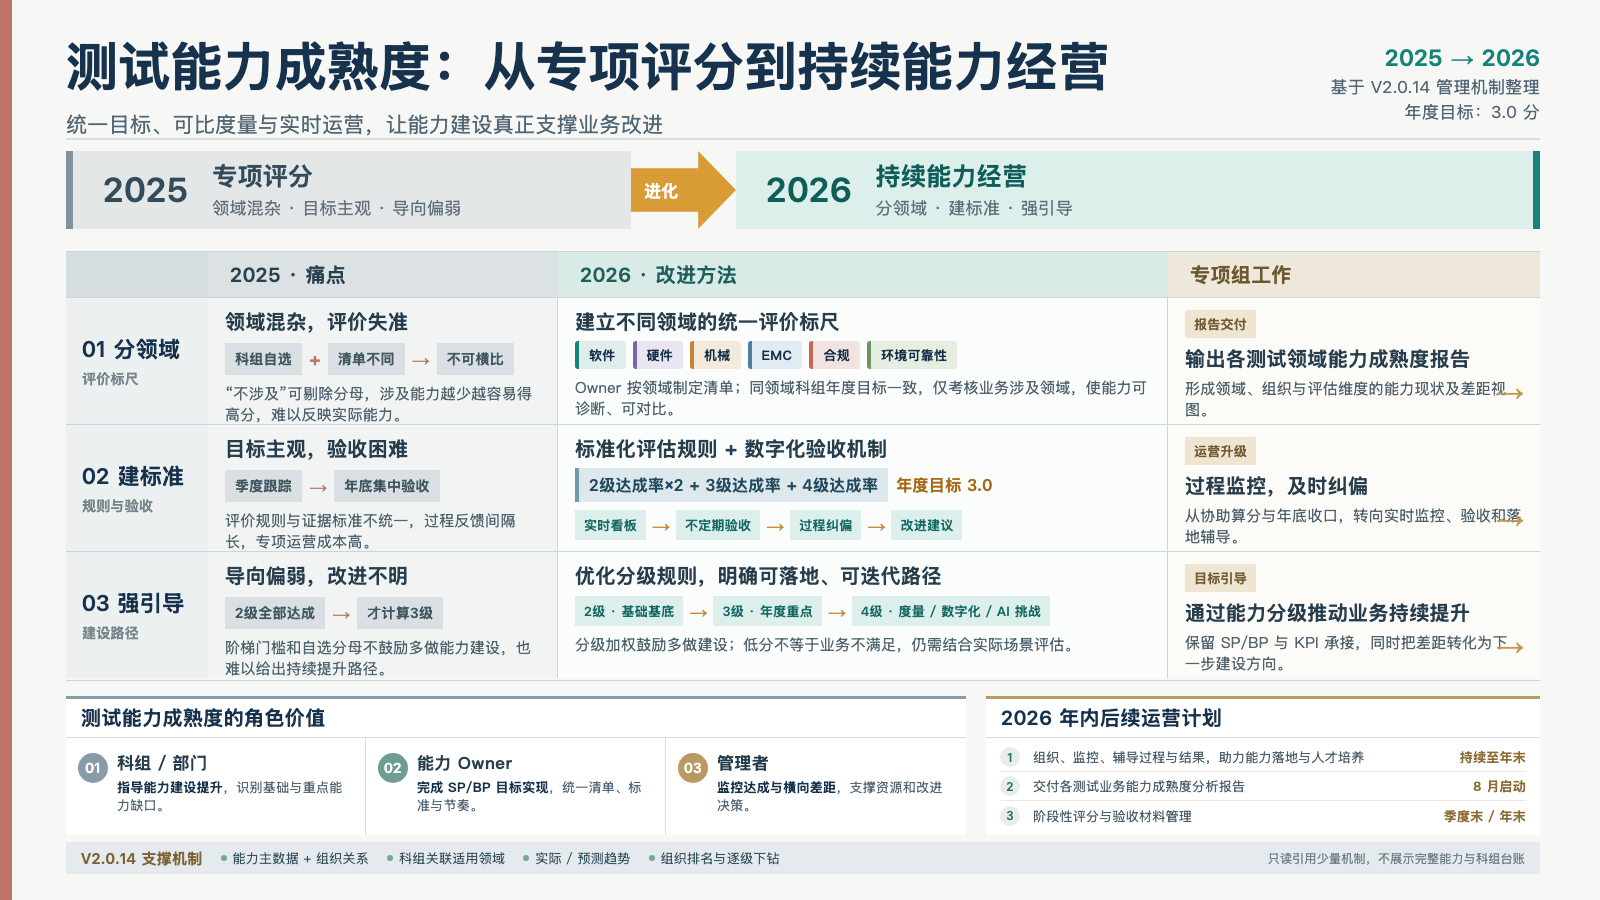
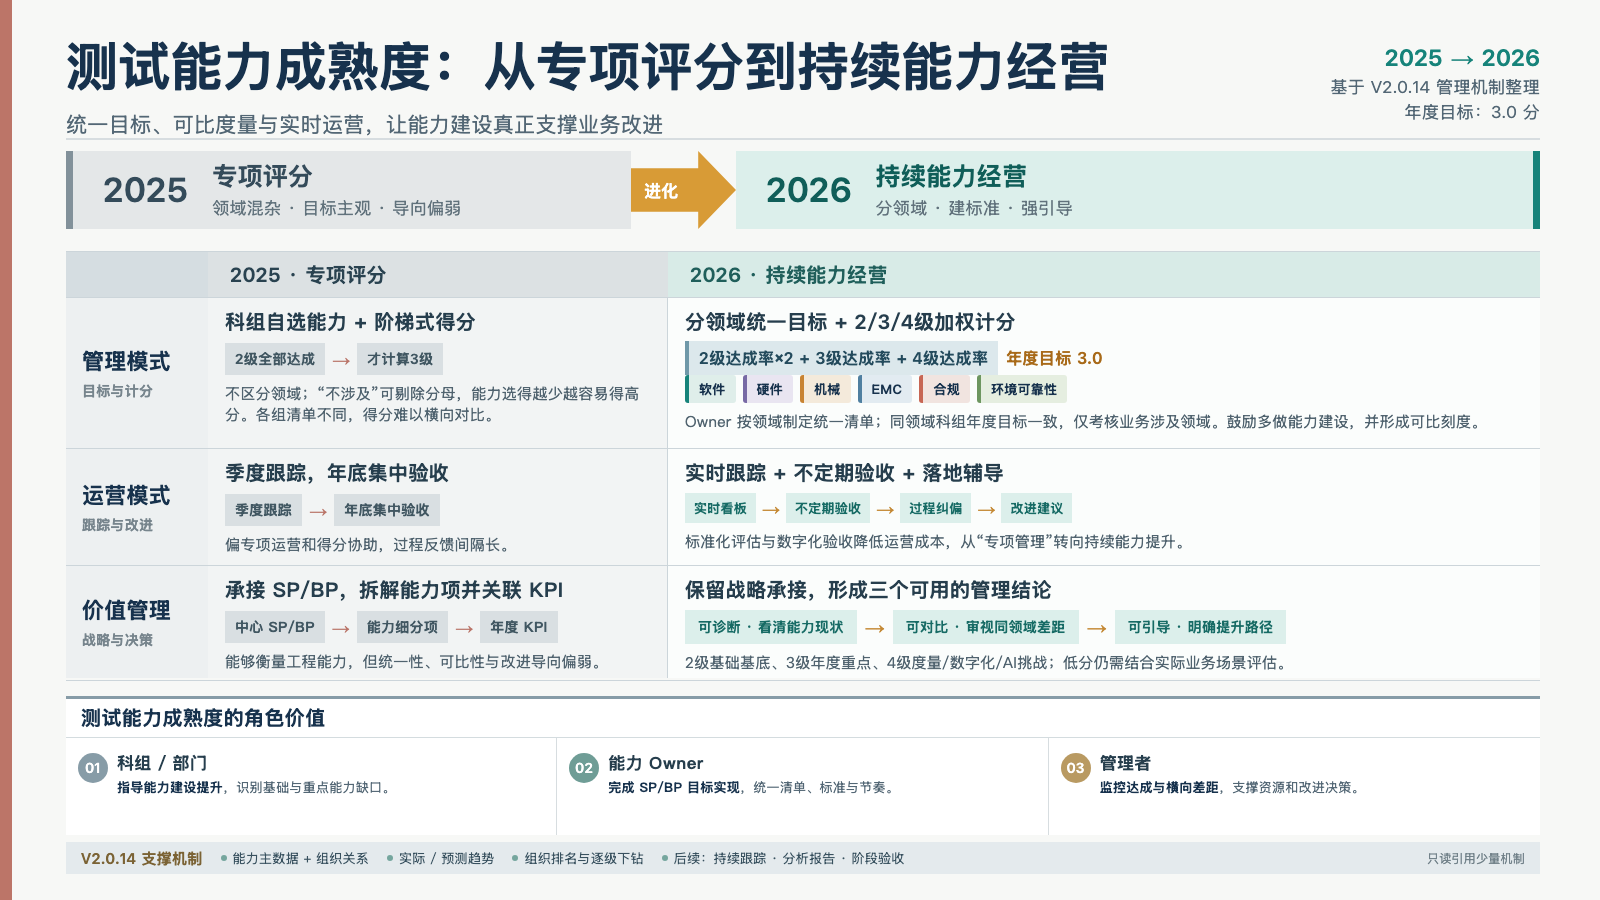
Refine task21 preview to core evolution points

diff --git a/task21-v2014-intro-ppt/html/测试能力成熟度2025-2026演进-单页PPT预览-v1.html b/task21-v2014-intro-ppt/html/测试能力成熟度2025-2026演进-单页PPT预览-v1.html
@@ -27,18 +27,16 @@
   .arrow{position:relative;background:#d89b36;clip-path:polygon(0 22%,64% 22%,64% 0,100% 50%,64% 100%,64% 78%,0 78%)}
   .arrow span{position:absolute;left:13px;top:28px;font-size:17px;color:white;font-weight:800}
 
-  .matrix{position:absolute;left:66px;right:60px;top:251px;height:430px;display:grid;grid-template-columns:142px 350px 610px 372px;grid-template-rows:45px repeat(3,127px);border-top:1px solid #ccd5da;border-bottom:1px solid #ccd5da}
+  .matrix{position:absolute;left:66px;right:60px;top:251px;height:430px;display:grid;grid-template-columns:142px 460px 872px;grid-template-rows:45px 151px 117px 113px;border-top:1px solid #ccd5da;border-bottom:1px solid #ccd5da}
   .matrix-head{display:flex;align-items:center;padding:0 22px;font-size:20px;font-weight:800;color:#294250}
   .matrix-head.old{background:#dce1e3}
   .matrix-head.new{background:#d8ebe7;color:#205f5b}
-  .matrix-head.work{background:#eee8db;color:#6c5831}
   .matrix-corner{background:#d5dde1}
   .row-label{display:flex;align-items:center;padding:0 16px;background:#edf0f1;border-top:1px solid #ccd5da;font-size:22px;font-weight:800;color:#17324d}
   .row-label small{display:block;font-size:14px;color:#77858d;margin-top:5px;font-weight:600}
   .cell{position:relative;padding:12px 17px;border-top:1px solid #ccd5da;background:#fff}
   .cell.old{border-right:1px solid #ccd5da;background:#f2f4f4}
-  .cell.new{background:#fbfdfc;border-right:1px solid #ccd5da}
-  .cell.work{background:#fdfbf7}
+  .cell.new{background:#fbfdfc}
   .cell h3{margin:0 0 7px;font-size:20px;line-height:1.2;color:#263e4d}
   .cell p{margin:0;font-size:15px;line-height:1.42;color:#50636f}
   .pain-art{display:flex;align-items:center;gap:7px;margin:9px 0 8px}
@@ -53,11 +51,12 @@
   .standard-flow,.level-flow{display:flex;align-items:center;gap:6px;margin:8px 0}
   .standard-flow span,.level-flow span{padding:6px 9px;background:#dcefeb;color:#176b65;font-size:13px;font-weight:800;white-space:nowrap}
   .standard-flow i,.level-flow i{font-style:normal;color:#c48935;font-size:18px;font-weight:900}
-  .work-tag{display:inline-block;margin-bottom:9px;padding:5px 9px;background:#eee5d2;color:#725d32;font-size:13px;font-weight:800}
-  .work-arrow{position:absolute;right:16px;bottom:13px;color:#c49a52;font-size:28px}
+  .takeaways{display:flex;align-items:center;gap:8px;margin:8px 0}
+  .takeaways span{padding:7px 13px;background:#dcefeb;color:#176b65;font-size:14px;font-weight:800}
+  .takeaways i{font-style:normal;color:#c48935;font-size:20px;font-weight:900}
 
-  .bottom{position:absolute;left:66px;right:60px;top:696px;height:139px;display:grid;grid-template-columns:900px 1fr;gap:20px}
-  .role-panel,.plan-panel{border-top:3px solid #879ca7;background:#fff}
+  .bottom{position:absolute;left:66px;right:60px;top:696px;height:139px}
+  .role-panel{height:139px;border-top:3px solid #879ca7;background:#fff}
   .panel-head{height:39px;display:flex;align-items:center;padding:0 15px;border-bottom:1px solid #d4dcdf;font-size:20px;font-weight:800;color:#17324d}
   .role-grid{display:grid;grid-template-columns:repeat(3,1fr);height:97px}
   .role{position:relative;padding:13px 14px 8px 51px;border-right:1px solid #d7dde0}
@@ -67,12 +66,6 @@
   .role h3{margin:0 0 4px;font-size:17px;color:#263e4d}
   .role p{margin:0;font-size:13px;line-height:1.38;color:#536775}
   .role b{color:#17324d}
-  .plan-panel{border-top-color:#b99a62}
-  .plan-list{padding:5px 14px 0}
-  .plan-item{display:grid;grid-template-columns:25px 1fr 116px;gap:8px;align-items:center;min-height:29px;border-bottom:1px solid #ece8df;font-size:13px;color:#4d606b}
-  .plan-item:last-child{border-bottom:0}
-  .plan-item b{display:flex;align-items:center;justify-content:center;width:20px;height:20px;border-radius:50%;background:#e7eee9;color:#286b65;font-size:12px}
-  .plan-item time{text-align:right;color:#8a6c35;font-weight:800}
 
   .proof{position:absolute;left:66px;right:60px;bottom:26px;height:32px;display:flex;align-items:center;gap:18px;padding:0 15px;background:#e4eaed;color:#38515f;font-size:13px}
   .proof strong{font-size:15px;color:#7b6335}
@@ -98,47 +91,45 @@
       <div class="era era-new"><div class="year">2026</div><div class="era-text"><strong>持续能力经营</strong><span>分领域 · 建标准 · 强引导</span></div></div>
     </section>
 
-    <section class="matrix" aria-label="2025痛点、2026改进方法与专项组工作">
-      <div class="matrix-corner"></div><div class="matrix-head old">2025 · 痛点</div><div class="matrix-head new">2026 · 改进方法</div><div class="matrix-head work">专项组工作</div>
+    <section class="matrix" aria-label="2025与2026管理、运营和价值对比">
+      <div class="matrix-corner"></div><div class="matrix-head old">2025 · 专项评分</div><div class="matrix-head new">2026 · 持续能力经营</div>
 
-      <div class="row-label"><div>01 分领域<small>评价标尺</small></div></div>
+      <div class="row-label"><div>管理模式<small>目标与计分</small></div></div>
       <div class="cell old">
-        <h3>领域混杂，评价失准</h3>
-        <div class="pain-art"><span class="pain-pill">科组自选</span><i>+</i><span class="pain-pill">清单不同</span><i>→</i><span class="pain-pill">不可横比</span></div>
-        <p>“不涉及”可剔除分母，涉及能力越少越容易得高分，难以反映实际能力。</p>
-      </div>
-      <div class="cell new">
-        <h3>建立不同领域的统一评价标尺</h3>
-        <div class="domains"><span class="domain">软件</span><span class="domain">硬件</span><span class="domain">机械</span><span class="domain">EMC</span><span class="domain">合规</span><span class="domain">环境可靠性</span></div>
-        <p style="margin-top:8px">Owner 按领域制定清单；同领域科组年度目标一致，仅考核业务涉及领域，使能力可诊断、可对比。</p>
-      </div>
-      <div class="cell work"><span class="work-tag">报告交付</span><h3>输出各测试领域能力成熟度报告</h3><p>形成领域、组织与评估维度的能力现状及差距视图。</p><span class="work-arrow">→</span></div>
-
-      <div class="row-label"><div>02 建标准<small>规则与验收</small></div></div>
-      <div class="cell old">
-        <h3>目标主观，验收困难</h3>
-        <div class="pain-art"><span class="pain-pill">季度跟踪</span><i>→</i><span class="pain-pill">年底集中验收</span></div>
-        <p>评价规则与证据标准不统一，过程反馈间隔长，专项运营成本高。</p>
-      </div>
-      <div class="cell new">
-        <h3>标准化评估规则 + 数字化验收机制</h3>
-        <div><span class="formula">2级达成率×2 + 3级达成率 + 4级达成率</span><span class="target">年度目标 3.0</span></div>
-        <div class="standard-flow"><span>实时看板</span><i>→</i><span>不定期验收</span><i>→</i><span>过程纠偏</span><i>→</i><span>改进建议</span></div>
-      </div>
-      <div class="cell work"><span class="work-tag">运营升级</span><h3>过程监控，及时纠偏</h3><p>从协助算分与年底收口，转向实时监控、验收和落地辅导。</p><span class="work-arrow">→</span></div>
-
-      <div class="row-label"><div>03 强引导<small>建设路径</small></div></div>
-      <div class="cell old">
-        <h3>导向偏弱，改进不明</h3>
+        <h3>科组自选能力 + 阶梯式得分</h3>
         <div class="pain-art"><span class="pain-pill">2级全部达成</span><i>→</i><span class="pain-pill">才计算3级</span></div>
-        <p>阶梯门槛和自选分母不鼓励多做能力建设，也难以给出持续提升路径。</p>
+        <p>不区分领域；“不涉及”可剔除分母，能力选得越少越容易得高分。各组清单不同，得分难以横向对比。</p>
       </div>
       <div class="cell new">
-        <h3>优化分级规则，明确可落地、可迭代路径</h3>
-        <div class="level-flow"><span>2级 · 基础基底</span><i>→</i><span>3级 · 年度重点</span><i>→</i><span>4级 · 度量 / 数字化 / AI 挑战</span></div>
-        <p>分级加权鼓励多做建设；低分不等于业务不满足，仍需结合实际场景评估。</p>
+        <h3>分领域统一目标 + 2/3/4级加权计分</h3>
+        <div><span class="formula">2级达成率×2 + 3级达成率 + 4级达成率</span><span class="target">年度目标 3.0</span></div>
+        <div class="domains"><span class="domain">软件</span><span class="domain">硬件</span><span class="domain">机械</span><span class="domain">EMC</span><span class="domain">合规</span><span class="domain">环境可靠性</span></div>
+        <p style="margin-top:8px">Owner 按领域制定统一清单；同领域科组年度目标一致，仅考核业务涉及领域。鼓励多做能力建设，并形成可比刻度。</p>
       </div>
-      <div class="cell work"><span class="work-tag">目标引导</span><h3>通过能力分级推动业务持续提升</h3><p>保留 SP/BP 与 KPI 承接，同时把差距转化为下一步建设方向。</p><span class="work-arrow">→</span></div>
+
+      <div class="row-label"><div>运营模式<small>跟踪与改进</small></div></div>
+      <div class="cell old">
+        <h3>季度跟踪，年底集中验收</h3>
+        <div class="pain-art"><span class="pain-pill">季度跟踪</span><i>→</i><span class="pain-pill">年底集中验收</span></div>
+        <p>偏专项运营和得分协助，过程反馈间隔长。</p>
+      </div>
+      <div class="cell new">
+        <h3>实时跟踪 + 不定期验收 + 落地辅导</h3>
+        <div class="standard-flow"><span>实时看板</span><i>→</i><span>不定期验收</span><i>→</i><span>过程纠偏</span><i>→</i><span>改进建议</span></div>
+        <p>标准化评估与数字化验收降低运营成本，从“专项管理”转向持续能力提升。</p>
+      </div>
+
+      <div class="row-label"><div>价值管理<small>战略与决策</small></div></div>
+      <div class="cell old">
+        <h3>承接 SP/BP，拆解能力项并关联 KPI</h3>
+        <div class="pain-art"><span class="pain-pill">中心 SP/BP</span><i>→</i><span class="pain-pill">能力细分项</span><i>→</i><span class="pain-pill">年度 KPI</span></div>
+        <p>能够衡量工程能力，但统一性、可比性与改进导向偏弱。</p>
+      </div>
+      <div class="cell new">
+        <h3>保留战略承接，形成三个可用的管理结论</h3>
+        <div class="takeaways"><span>可诊断 · 看清能力现状</span><i>→</i><span>可对比 · 审视同领域差距</span><i>→</i><span>可引导 · 明确提升路径</span></div>
+        <p>2级基础基底、3级年度重点、4级度量/数字化/AI挑战；低分仍需结合实际业务场景评估。</p>
+      </div>
     </section>
 
     <section class="bottom" aria-label="角色价值与2026年运营计划">
@@ -150,20 +141,12 @@
           <div class="role"><span class="role-num">03</span><h3>管理者</h3><p><b>监控达成与横向差距</b>，支撑资源和改进决策。</p></div>
         </div>
       </div>
-      <div class="plan-panel">
-        <div class="panel-head">2026 年内后续运营计划</div>
-        <div class="plan-list">
-          <div class="plan-item"><b>1</b><span>组织、监控、辅导过程与结果，助力能力落地与人才培养</span><time>持续至年末</time></div>
-          <div class="plan-item"><b>2</b><span>交付各测试业务能力成熟度分析报告</span><time>8 月启动</time></div>
-          <div class="plan-item"><b>3</b><span>阶段性评分与验收材料管理</span><time>季度末 / 年末</time></div>
-        </div>
-      </div>
     </section>
 
     <footer class="proof">
       <strong>V2.0.14 支撑机制</strong>
-      <span>能力主数据 + 组织关系</span><span>科组关联适用领域</span><span>实际 / 预测趋势</span><span>组织排名与逐级下钻</span>
-      <div class="source">只读引用少量机制，不展示完整能力与科组台账</div>
+      <span>能力主数据 + 组织关系</span><span>实际 / 预测趋势</span><span>组织排名与逐级下钻</span><span>后续：持续跟踪 · 分析报告 · 阶段验收</span>
+      <div class="source">只读引用少量机制</div>
     </footer>
   </main>
 </div>
